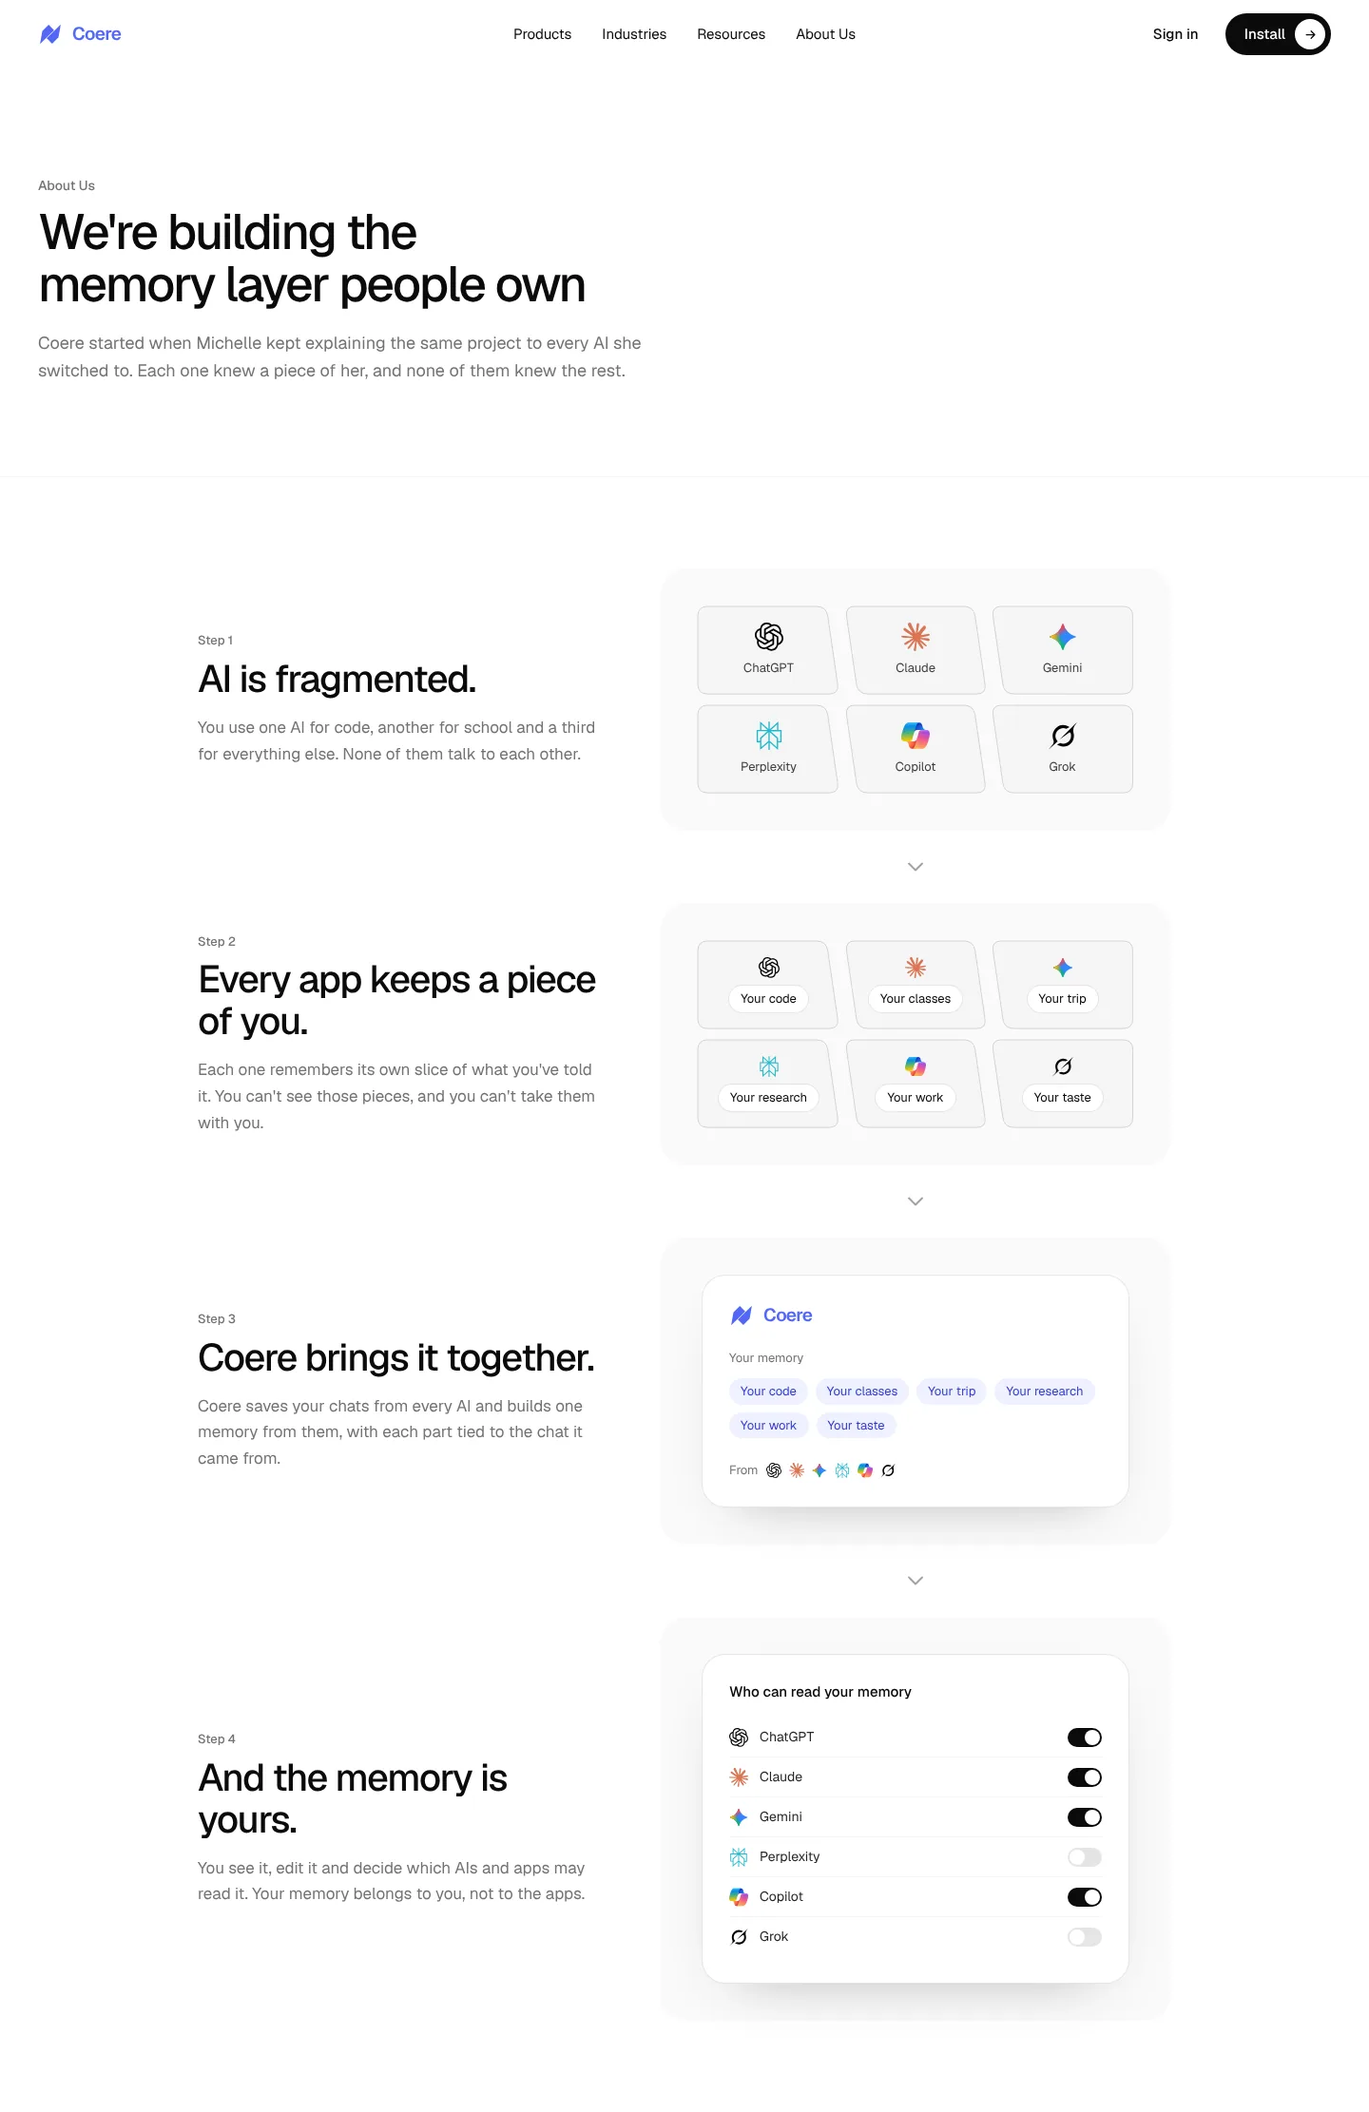
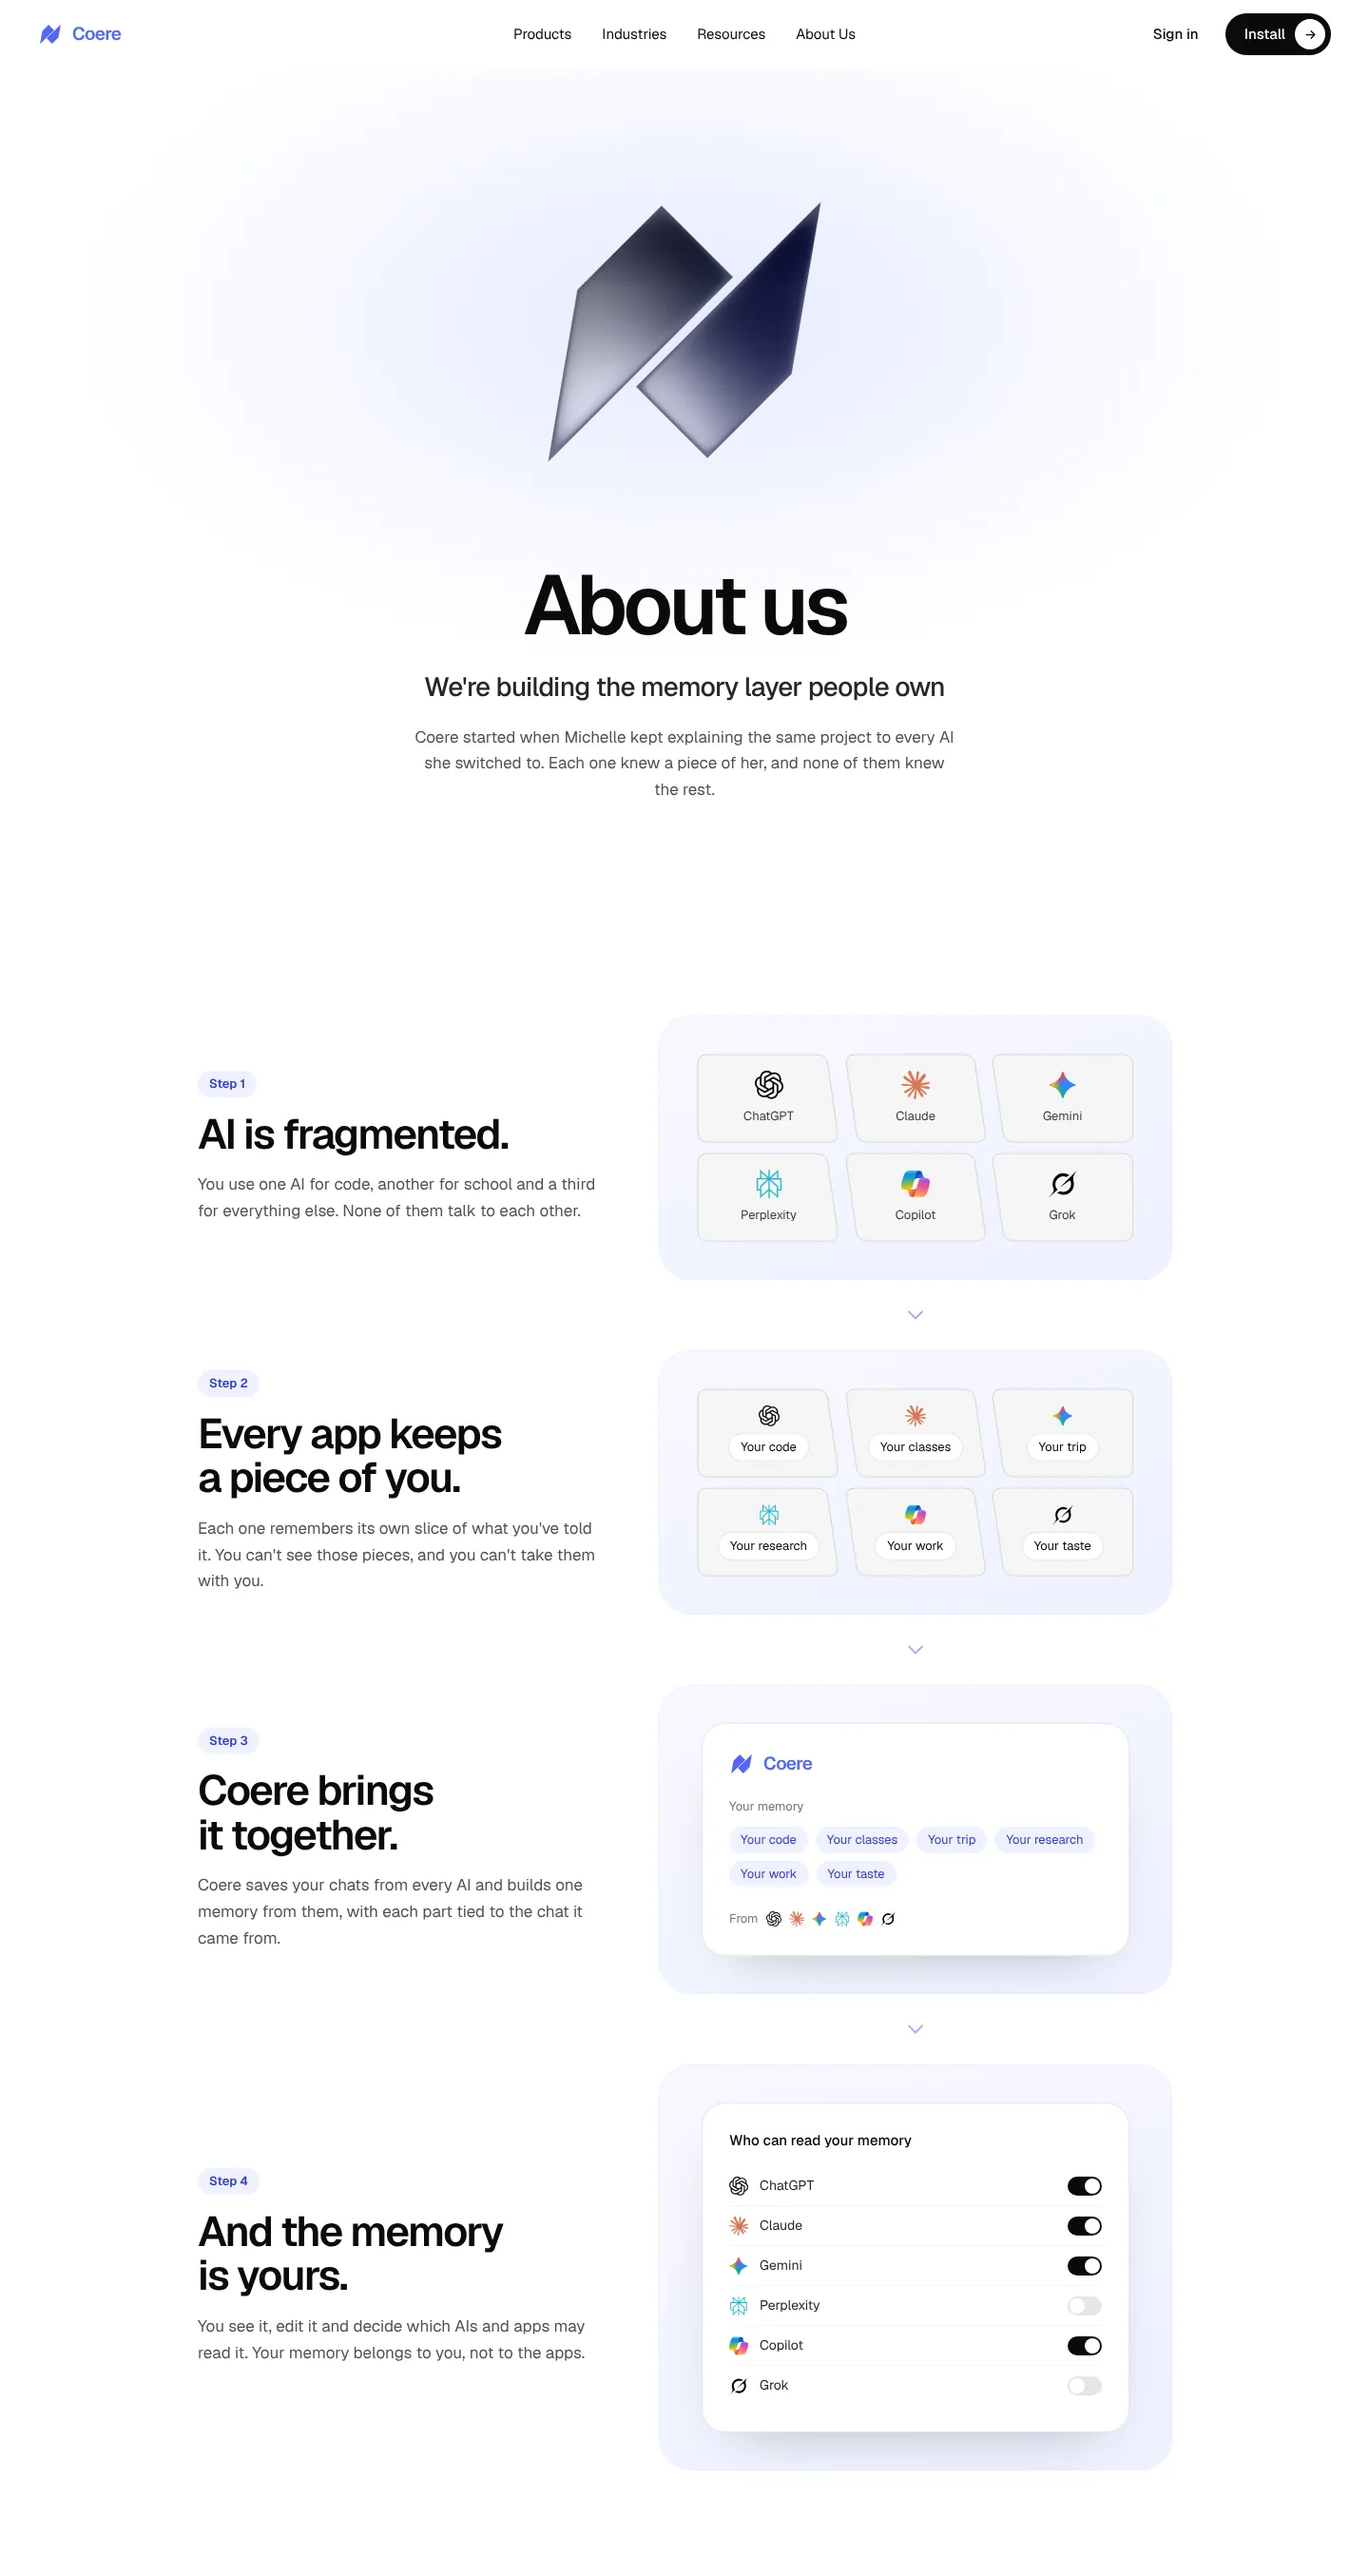
Retake About and add blog and careers pictures
About opens on the chrome mark now, and the blog and careers were restyled. The screenshot tool takes the blog, the funding post and careers, and About and the blog at phone width. The About pictures stop where the team starts, as before.

Claude-Session: https://claude.ai/code/session_01Ur6uqNCXa3ecJ23BnM9D9o

diff --git a/docs/screenshots/site/README.md b/docs/screenshots/site/README.md
@@ -51,8 +51,16 @@ The whole page: [home.webp](home.webp).
 | | |
 |---|---|
 | <img src="resources.webp" alt="The developer docs' first page, with the list of pages on the left" /><br /><sub>The developer docs</sub> | <img src="resources-endpoints.webp" alt="The docs' Endpoints page, with each route and its parameters" /><br /><sub>One docs page: Endpoints</sub> |
-| <img src="about.webp" alt="The about page down to its team: four steps from AI is fragmented to the memory is yours" /><br /><sub>About, down to where the team starts</sub> | <img src="portable-ai-memory.webp" alt="The Portable AI memory guide" /><br /><sub>A guide: Portable AI memory</sub> |
+| <img src="about.webp" alt="The about page down to its team: the Coere mark in liquid chrome over About us, then four steps from AI is fragmented to the memory is yours" /><br /><sub>About, down to where the team starts</sub> | <img src="portable-ai-memory.webp" alt="The Portable AI memory guide" /><br /><sub>A guide: Portable AI memory</sub> |
 | <img src="privacy-top.webp" alt="The privacy policy: What Coere reads, keeps and sends, with the short version beside the list of its parts" /><br /><sub>The privacy policy, the short version first. <a href="privacy.webp">The whole policy</a></sub> | <img src="developer-waitlist.webp" alt="Give your app's users memory from day one, with a work email field, Join the waitlist and a TypeScript sample beside it" /><br /><sub>The developer waitlist</sub> |
+
+## Blog and careers
+
+| | |
+|---|---|
+| <img src="blog.webp" alt="The blog: The latest news, launches, and insights, with Coere is now venture backed featured on top and four more posts as cards" /><br /><sub>The blog, the newest post featured</sub> | <img src="blog-post.webp" alt="The post Coere is now venture backed, with its cover, its words and Get Coere Connect" /><br /><sub>A post: Coere is now venture backed</sub> |
+| <img src="careers.webp" alt="Careers: Build the memory layer with us, the job board with its filters and an open role, and How we work" /><br /><sub>Careers, with the job board</sub> | <img src="phone-blog.webp" width="195" alt="The blog's first screen at phone width" /><br /><sub>The blog at 390 wide</sub> |
+| <img src="phone-about.webp" width="195" alt="The about page's first screen at phone width: the chrome Coere mark over About us" /><br /><sub>About at 390 wide</sub> | |
 
 ## Coming soon
 
